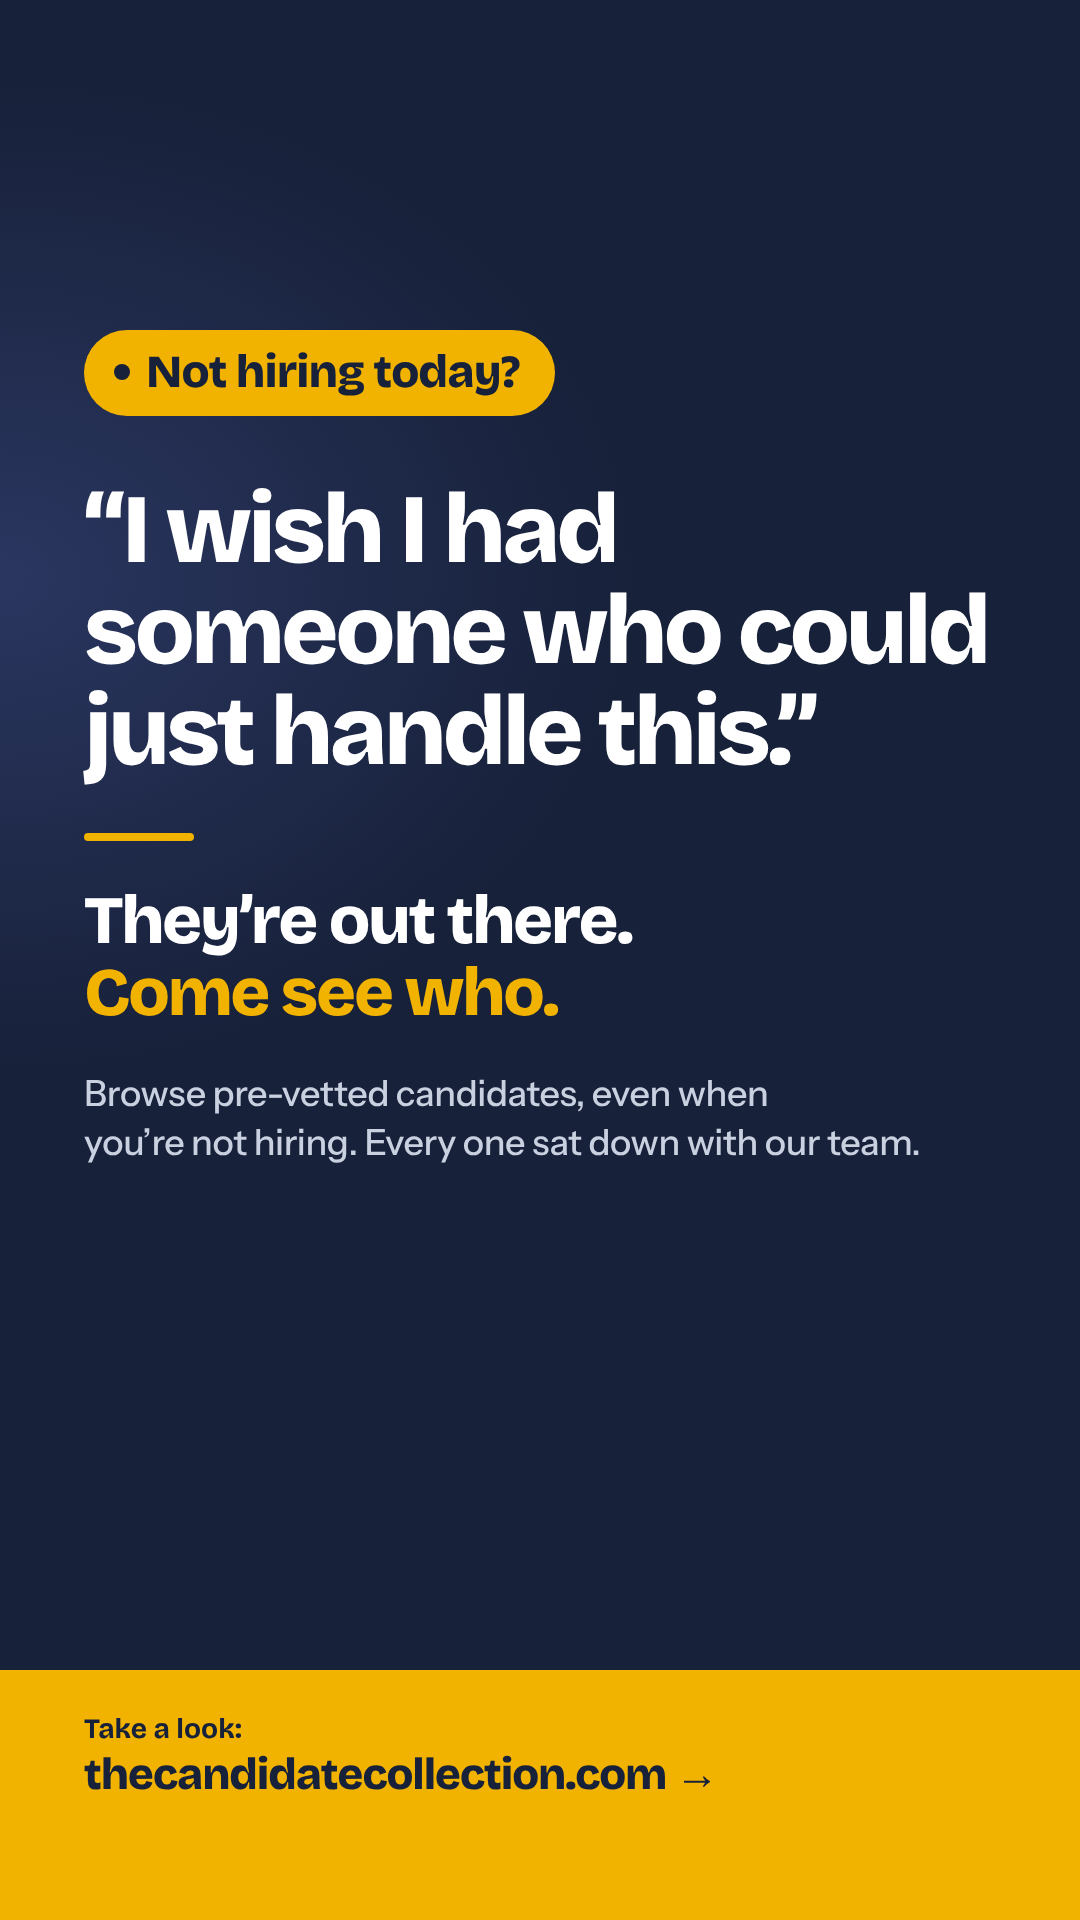
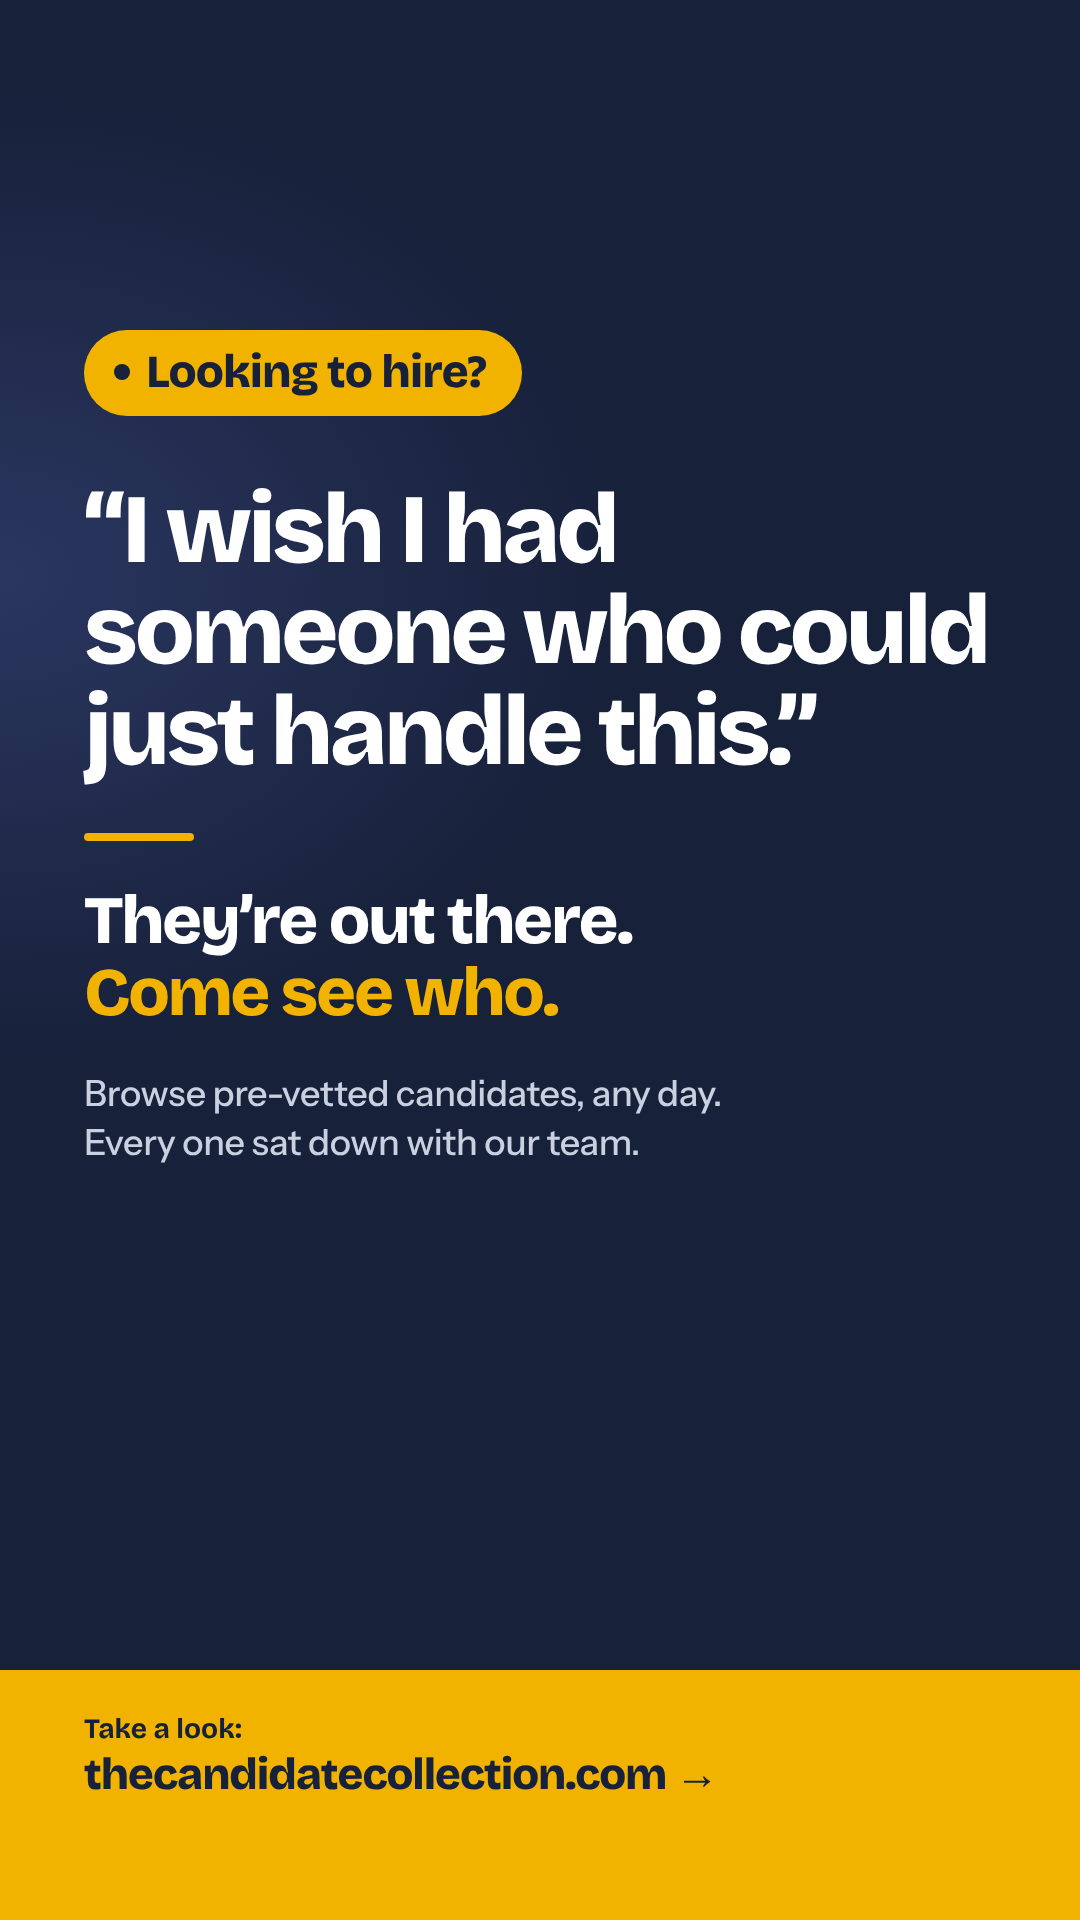
Always hiring: the page no longer tells owners they aren't hiring
Claude-Session: https://claude.ai/code/session_01EZeEyNzeQFPN4DFsUvzuMe

diff --git a/src/app/always-hiring/page.tsx b/src/app/always-hiring/page.tsx
@@ -10,13 +10,13 @@ import styles from "./looking.module.css";
 export const dynamic = "force-dynamic";
 
 export const metadata: Metadata = {
-  title: "Not hiring today? See who's out there",
-  description: "Every day you think, I wish I had someone who could handle this. See who's out there, even when you're not hiring.",
+  title: "Everyone is always hiring",
+  description: "Every day you think, I wish I had someone who could handle this. Everyone is always hiring. Come see who's out there.",
 };
 
-// For the owner who likes to look. A short story, then real people to scroll.
+// The "everyone is always hiring" idea, told from the owner's day, then real people to scroll.
 // Reached from posters and the footer; deliberately not in the top menu.
-export default async function JustLookingPage() {
+export default async function AlwaysHiringPage() {
   await keepCandidatesOut();
   const [{ rows }, tiers, busy] = await Promise.all([allListed(), getTiers(), interviewingIds()]);
   const newest = [...rows].sort((a, b) => String(b.listed_at ?? "").localeCompare(String(a.listed_at ?? ""))).slice(0, 4);
@@ -24,7 +24,7 @@ export default async function JustLookingPage() {
     <div className={styles.page}>
       <Seen step="just_looking" />
       <section className={`wrap ${styles.story}`}>
-        <p className={styles.label}>Not hiring today?</p>
+        <p className={styles.label}>Everyone&rsquo;s always hiring</p>
         <h1>
           &ldquo;I wish I had someone who could just handle this.&rdquo; <span>How many times did you say it this week?</span>
         </h1>
@@ -35,11 +35,12 @@ export default async function JustLookingPage() {
           Every day in a business has one of those moments. You think, <em>I wish I had someone.</em> Then the phone
           rings, and the thought is gone.
         </p>
-        <p>You&rsquo;re not hiring. There&rsquo;s no opening and no job description. So the thought never turns into anything.</p>
+        <p>That thought is a hiring thought. You have one almost every day.</p>
 
-        <h2>So don&rsquo;t hire. Just look.</h2>
+        <h2>Everyone is always hiring.</h2>
 
-        <p>Open the collection for a few minutes, here and there, the way you&rsquo;d check anything else on your phone.</p>
+        <p>Some owners are just more active about it than others. Most of us wait until it hurts, and then we rush.</p>
+        <p>So look now. Open the collection for a few minutes, here and there, the way you&rsquo;d check anything else on your phone.</p>
         <p>
           Read what each person is great at. The one who loves the details. The one who keeps a whole office moving.
           The one who picks up the phone and follows through.

diff --git a/src/lib/shareKit.ts b/src/lib/shareKit.ts
@@ -59,12 +59,12 @@ export function ownerKits(ref?: string | null): Kit[] {
     { id: "concept-talk-browse", name: "Talk or browse", tag: "New", about: "Tell us the position, or browse the candidates yourself.", image: "/share/owner-concept-talk-browse.png", message: concept(ref, "We've already met the candidates. Tell us the position you're hiring for, or browse them yourself."), link },
     {
       id: "browse-anyway",
-      name: "Just looking",
+      name: "I wish I had someone",
       tag: "New",
-      about: "For owners who aren't hiring today but like to look. Opens the page that explains why.",
+      about: "Speaks to the daily 'I wish I had someone' moment. Opens the Always hiring page.",
       image: "/share/owner-browse-anyway.png",
-      message: `\"I wish I had someone who could just handle this.\"\n\nNot hiring today? See who's out there anyway.\n\nPre-vetted candidates. Every one sat down with our team.\n\nTake a look: ${siteUrl()}/just-looking${ref ? `?r=${refSlug(ref)}` : ""}`,
-      link: `${siteUrl()}/just-looking${ref ? `?r=${refSlug(ref)}` : ""}`,
+      message: `\"I wish I had someone who could just handle this.\"\n\nThey're out there. Come see who.\n\nPre-vetted candidates. Every one sat down with our team.\n\nTake a look: ${siteUrl()}/always-hiring${ref ? `?r=${refSlug(ref)}` : ""}`,
+      link: `${siteUrl()}/always-hiring${ref ? `?r=${refSlug(ref)}` : ""}`,
     },
     { id: "half-hour", name: "Half an hour", tag: "Shloimy recommends", about: "The promise: a candidate to consider in half an hour.", image: "/share/owner-teaser.png", message: ownerTeaser(ref), link },
     { id: "concept-words", name: "A new concept (browse)", about: "For owners who like to browse and pick for themselves. Words only.", image: "/share/owner-concept-words.png", message: ownerConcept(ref), link },

diff --git a/design/posters/browse-anyway.html b/design/posters/browse-anyway.html
@@ -18,10 +18,10 @@ h2 span{color:#f2b300;display:block}.bar{width:110px;height:8px;border-radius:4p
 .card .d{font-size:35px;line-height:1.3;margin-top:22px;color:#17213a}
 .card .t{margin-top:26px;font-family:B;font-weight:800;font-size:25px;color:#3f7d4e;letter-spacing:.02em}
 </style><body class="p"><div class="in">
-<span class="pill"><i></i>Not hiring today?</span>
+<span class="pill"><i></i>Looking to hire?</span>
 <h1 style="font-size:98px;margin-top:64px;line-height:1.03">&ldquo;I wish I had someone who could just handle this.&rdquo;</h1>
 <div class="bar" style="margin:50px 0 44px"></div>
 <h2 style="font-size:68px;color:#fff">They&rsquo;re out there. <span>Come see who.</span></h2>
-<p class="s" style="font-size:36px;margin-top:40px">Browse pre-vetted candidates, even when<br>you&rsquo;re not hiring. Every one sat down with our team.</p>
+<p class="s" style="font-size:36px;margin-top:40px">Browse pre-vetted candidates, any day.<br>Every one sat down with our team.</p>
 </div>
 <div class="band"><div class="a">Take a look:</div><div class="b">thecandidatecollection.com →</div></div>

diff --git a/src/app/layout.tsx b/src/app/layout.tsx
@@ -89,7 +89,7 @@ export default async function RootLayout({ children }: LayoutProps<"/">) {
               <Link href={P("/meet")}>Meet the team</Link>
               <Link href={P("/how-it-works")}>How it works</Link>
               <Link href={P("/candidates")}>Browse candidates</Link>
-              <Link href={P("/just-looking")}>Just looking?</Link>
+              <Link href={P("/always-hiring")}>Always hiring</Link>
               <Link href={P("/hiring-help")}>Hiring help</Link>
               <Link href={P("/billing")}>Billing philosophy</Link>
               <Link href={P(signedIn ? "/account" : "/login")}>{signedIn ? "Your account" : "Business sign in"}</Link>

diff --git a/src/proxy.ts b/src/proxy.ts
@@ -43,5 +43,5 @@ export function proxy(req: NextRequest) {
 }
 
 export const config = {
-  matcher: ["/", "/why", "/how-it-works", "/meet", "/billing", "/terms", "/mission", "/apply", "/contact", "/privacy", "/strengths", "/candidates", "/candidates/:path*", "/join", "/join/:path*", "/hiring-help", "/hiring-help/:path*", "/just-looking"],
+  matcher: ["/", "/why", "/how-it-works", "/meet", "/billing", "/terms", "/mission", "/apply", "/contact", "/privacy", "/strengths", "/candidates", "/candidates/:path*", "/join", "/join/:path*", "/hiring-help", "/hiring-help/:path*", "/always-hiring"],
 };
